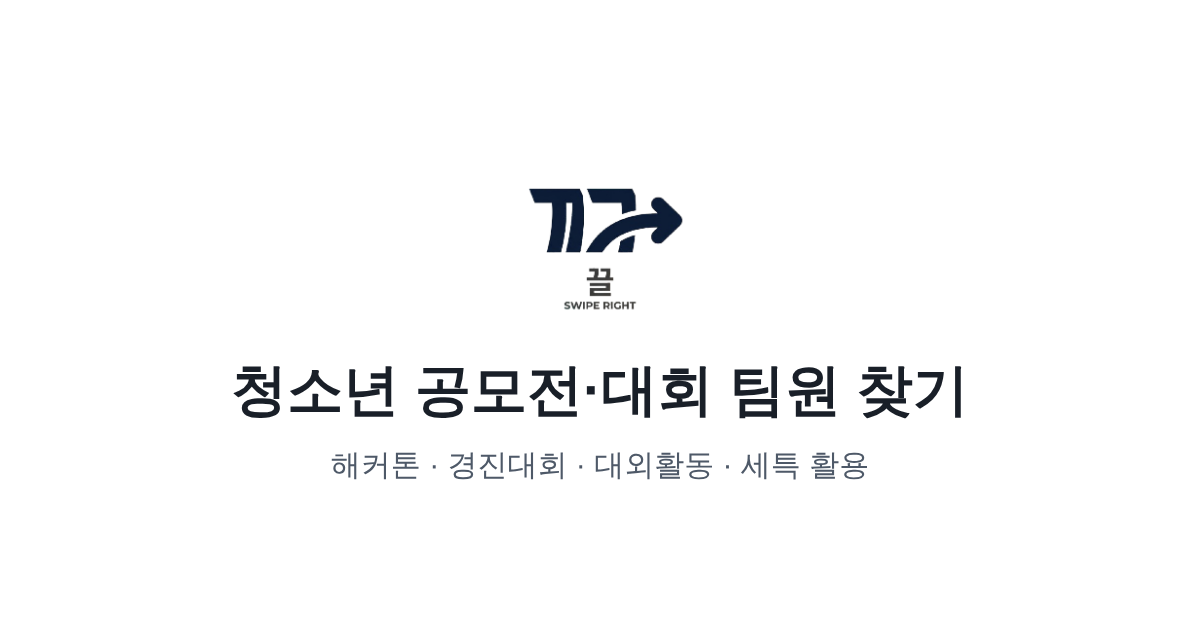
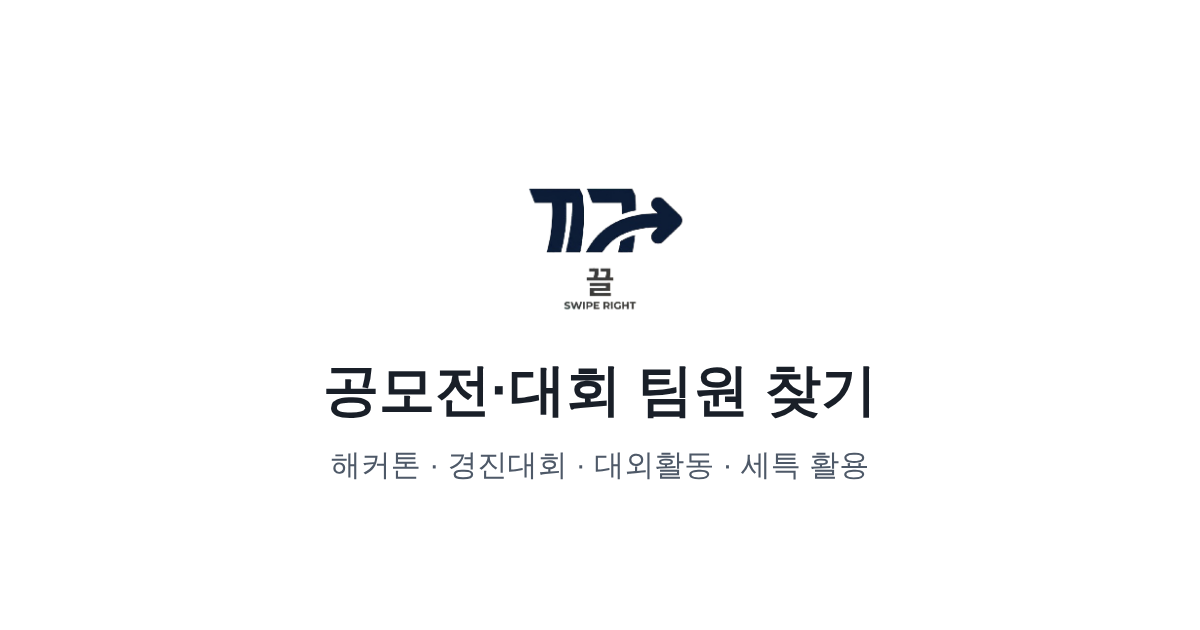
첫 화면 '공고 0개' 깜빡임 제거, 링크 미리보기 문구에서 '청소년' 제거
- 공고를 다 받기 전에는 홈 화면을 그리지 않아 '접수 중인 공고 0개'가 DOM에 생기지 않음 (공고가 0개면 숫자 대신 안내 문구)
- 링크 미리보기(OG) 제목·페이지 제목·소개, 검색용 서버 페이지, RSS, 가입 첫 화면, PC 사이드바의 '청소년 공모전·대회 팀원 찾기' → '공모전·대회 팀원 찾기'
- 링크 미리보기 이미지(og-image.png)도 같은 문구로 다시 만듦

Claude-Session: https://claude.ai/code/session_01KgSmHGZYrMQ9ooHi5Catet

Changed region(s): [[0.185, 0.573, 0.8017, 0.6635]]

diff --git a/index.html b/index.html
@@ -10,15 +10,15 @@
     <meta name="google-site-verification" content="sK1dPKLsDIXmYCBLLra9DD5TlrSyhvWnQ9Md5dvIRz8" />
     <meta name="naver-site-verification" content="6ebb270900af8d0323f6a9bed419cb5506a38016" />
     <!--seo:start-->
-    <title>끌 - 청소년 공모전·대회 팀원 찾기 | 해커톤·경진대회 팀원 모집, 세특 활용</title>
+    <title>끌 - 공모전·대회 팀원 찾기 | 해커톤·경진대회 팀원 모집, 세특 활용</title>
     <meta name="description" content="중·고·대학생 공모전, AI 해커톤, 경진대회, 대외활동을 한곳에서 보고 대회별로 함께 나갈 팀원을 찾으세요. 세특(생기부)에 이어 쓸 포인트까지 끌에서 확인해요." />
-    <meta name="keywords" content="공모전 팀원, 청소년 공모전, 고등학생 공모전, 중학생 대회, 대학생 공모전, 해커톤 팀원, AI 해커톤, 경진대회, 세특, 생기부, 대외활동, 팀원 모집" />
+    <meta name="keywords" content="공모전 팀원, 고등학생 공모전, 중학생 대회, 대학생 공모전, 해커톤 팀원, AI 해커톤, 경진대회, 세특, 생기부, 대외활동, 팀원 모집" />
     <meta name="robots" content="index,follow" />
     <link rel="canonical" href="https://kkeul.telosix.co.kr/" />
     <meta property="og:site_name" content="끌" />
     <meta property="og:locale" content="ko_KR" />
     <meta property="og:type" content="website" />
-    <meta property="og:title" content="끌 - 청소년 공모전·대회 팀원 찾기" />
+    <meta property="og:title" content="끌 - 공모전·대회 팀원 찾기" />
     <meta property="og:description" content="공모전·해커톤·경진대회별로 함께 나갈 팀원을 찾고, 세특(생기부)에 이어 쓸 포인트까지 확인하세요." />
     <meta property="og:url" content="https://kkeul.telosix.co.kr/" />
     <meta property="og:image" content="https://kkeul.telosix.co.kr/og-image.png" />
@@ -29,7 +29,7 @@
   </head>
   <body>
     <div id="root"><!--root:start--><main style="max-width:720px;margin:0 auto;padding:24px 16px;font-family:sans-serif;line-height:1.65;word-break:keep-all">
-      <h1>끌 - 청소년 공모전·대회 팀원 찾기</h1>
+      <h1>끌 - 공모전·대회 팀원 찾기</h1>
       <p>중·고·대학생이 지금 지원할 수 있는 공모전, AI 해커톤, 경진대회, 대외활동을 마감 순으로 모았어요.</p>
       <h2>대회별 팀원 모집</h2>
       <p>대회마다 팀원 모집 게시판이 있어요. 내 역할(개발·디자인·기획 등)을 적고 구인글을 올리거나, 올라온 글에 합류 요청을 보내세요.</p>

diff --git a/api/contests-page.js b/api/contests-page.js
@@ -22,13 +22,13 @@ export default async function handler(req, res) {
   const order = [...Object.keys(SETEUK_POINTS), '기타'].filter((c) => groups.has(c));
   for (const c of groups.keys()) if (!order.includes(c)) order.push(c);
 
-  const title = `청소년 공모전·대회 팀원 모집 ${rows.length ? `${rows.length}개 ` : ''}| ${SITE_NAME}`;
+  const title = `공모전·대회 팀원 모집 ${rows.length ? `${rows.length}개 ` : ''}| ${SITE_NAME}`;
   const description =
     '중·고·대학생이 지금 지원할 수 있는 공모전, 해커톤, 경진대회, 대외활동을 마감 순으로 모았어요. 대회별로 함께 나갈 팀원을 찾고 세특(생기부)에 이어 쓸 포인트도 확인하세요.';
 
   const body = `${PAGE_STYLE}<main class="seo">
 <nav><a href="/">끌</a> › 공모전·대회</nav>
-<h1>지금 접수 중인 청소년 공모전·대회</h1>
+<h1>지금 접수 중인 공모전·대회</h1>
 <p>${rows.length}개 대회가 접수 중이에요. 대회를 누르면 그 대회 팀원 모집 게시판으로 가요.</p>
 ${order.length ? `<p>${order.map((c) => `<a href="#${encodeURIComponent(c)}">${esc(c)}</a>`).join(' · ')}</p>` : ''}
 ${order
@@ -50,7 +50,7 @@ ${order
       {
         '@context': 'https://schema.org',
         '@type': 'ItemList',
-        name: '지금 접수 중인 청소년 공모전·대회',
+        name: '지금 접수 중인 공모전·대회',
         itemListElement: rows.slice(0, 100).map((a, i) => ({ '@type': 'ListItem', position: i + 1, url: `${SITE_URL}/contest/${encodeURIComponent(a.id)}`, name: a.title }))
       }
     ],

diff --git a/src/App.tsx b/src/App.tsx
@@ -543,7 +543,7 @@ function App() {
     // 웰컴 푸시 발송
     triggerMockPush(
       '로그인 완료',
-      `${completedProfile.name}님만을 위한 청소년 맞춤 기회들을 지금 끌어왔어요!`
+      `${completedProfile.name}님만을 위한 맞춤 기회들을 지금 끌어왔어요!`
     );
   };
 
@@ -833,7 +833,8 @@ function App() {
         />
       )}
 
-      {(screen === 'main' || screen === 'detail') && (
+      {/* 공고를 다 받기 전에는 홈을 그리지 않는다 ("공고 0개" 같은 빈 숫자가 잠깐 보이지 않게) */}
+      {!isLoading && (screen === 'main' || screen === 'detail') && (
         <div style={{ display: screen === 'main' ? 'block' : 'none', height: '100%', width: '100%' }}>
           {/* 상세 화면이 열려 목록이 숨으면 목록의 광고는 내린다 (같은 광고가 한 화면에 두 번 뜨지 않게) */}
           <AdScope.Provider value={screen === 'main'}>

diff --git a/src/components/DesktopShell.tsx b/src/components/DesktopShell.tsx
@@ -104,7 +104,7 @@ export const DesktopShell: React.FC<DesktopShellProps> = ({
           <img src={logoImg} alt="" />
           <div>
             <strong>끌</strong>
-            <span>청소년 대회 팀원 찾기</span>
+            <span>대회 팀원 찾기</span>
           </div>
         </div>
 
@@ -144,7 +144,7 @@ export const DesktopShell: React.FC<DesktopShellProps> = ({
           <div className="desk-pitch">
             <h2>대회에 같이 나갈 팀원,<br />끌에서 찾으세요</h2>
             <ul>
-              <li>지금 접수 중인 청소년 공모전·대외활동</li>
+              <li>지금 접수 중인 공모전·대외활동</li>
               <li>대회별 팀원 모집 게시판</li>
               <li>우리 학교 동아리 모집과 지원</li>
             </ul>

diff --git a/src/components/GuestHomeGate.tsx b/src/components/GuestHomeGate.tsx
@@ -32,7 +32,9 @@ export const GuestHomeGate: React.FC<GuestHomeGateProps> = ({ announcements, onS
     <section className="guest-gate" style={{ alignItems: 'stretch', textAlign: 'left', gap: '14px' }}>
       <div>
         <strong style={{ fontSize: '20px', lineHeight: 1.4, display: 'block' }}>
-          지금 접수 중인 공고 <span style={{ color: 'var(--color-indigo)' }}>{total.toLocaleString()}개</span>
+          {total > 0
+            ? <>지금 접수 중인 공고 <span style={{ color: 'var(--color-indigo)' }}>{total.toLocaleString()}개</span></>
+            : '접수 중인 공고를 가입하면 볼 수 있어요'}
         </strong>
         <p style={{ marginTop: '4px' }}>가입하면 전부 볼 수 있어요. 가입은 이메일만 있으면 1분이면 돼요.</p>
       </div>

diff --git a/src/components/Onboarding.tsx b/src/components/Onboarding.tsx
@@ -389,7 +389,7 @@ export const Onboarding: React.FC<OnboardingProps> = ({ onComplete, backRef, onB
                 대회 같이 나갈 팀원,<br />끌에서 찾아요
               </h1>
               <p style={{ color: 'var(--text-secondary)', fontSize: '15px' }}>
-                청소년 공모전·대회를 보고, 팀원을 구하고, 생기부까지 챙겨요.
+                공모전·대회를 보고, 팀원을 구하고, 생기부까지 챙겨요.
               </p>
             </div>
             <div style={{ width: '100%', display: 'flex', flexDirection: 'column', gap: '12px' }}>

diff --git a/api/contest-page.js b/api/contest-page.js
@@ -20,7 +20,7 @@ export default async function handler(req, res) {
     } catch {
       // DB 오류면 앱만 띄운다 (검색엔진에는 잠시 오류로)
       sendHtml(res, 503, renderPage(base, {
-        title: `${SITE_NAME} - 청소년 공모전·대회 팀원 찾기`,
+        title: `${SITE_NAME} - 공모전·대회 팀원 찾기`,
         description: '잠시 후 다시 시도해 주세요.',
         robots: 'noindex',
         body: ''

diff --git a/api/rss.js b/api/rss.js
@@ -23,7 +23,7 @@ export default async function handler(req, res) {
   const xml = `<?xml version="1.0" encoding="UTF-8"?>
 <rss version="2.0">
   <channel>
-    <title>끌 - 청소년 공모전·대회 팀원 찾기</title>
+    <title>끌 - 공모전·대회 팀원 찾기</title>
     <link>${SITE_URL}/</link>
     <description>중·고·대학생 공모전, 해커톤, 경진대회와 대회별 팀원 모집</description>
     <language>ko</language>
